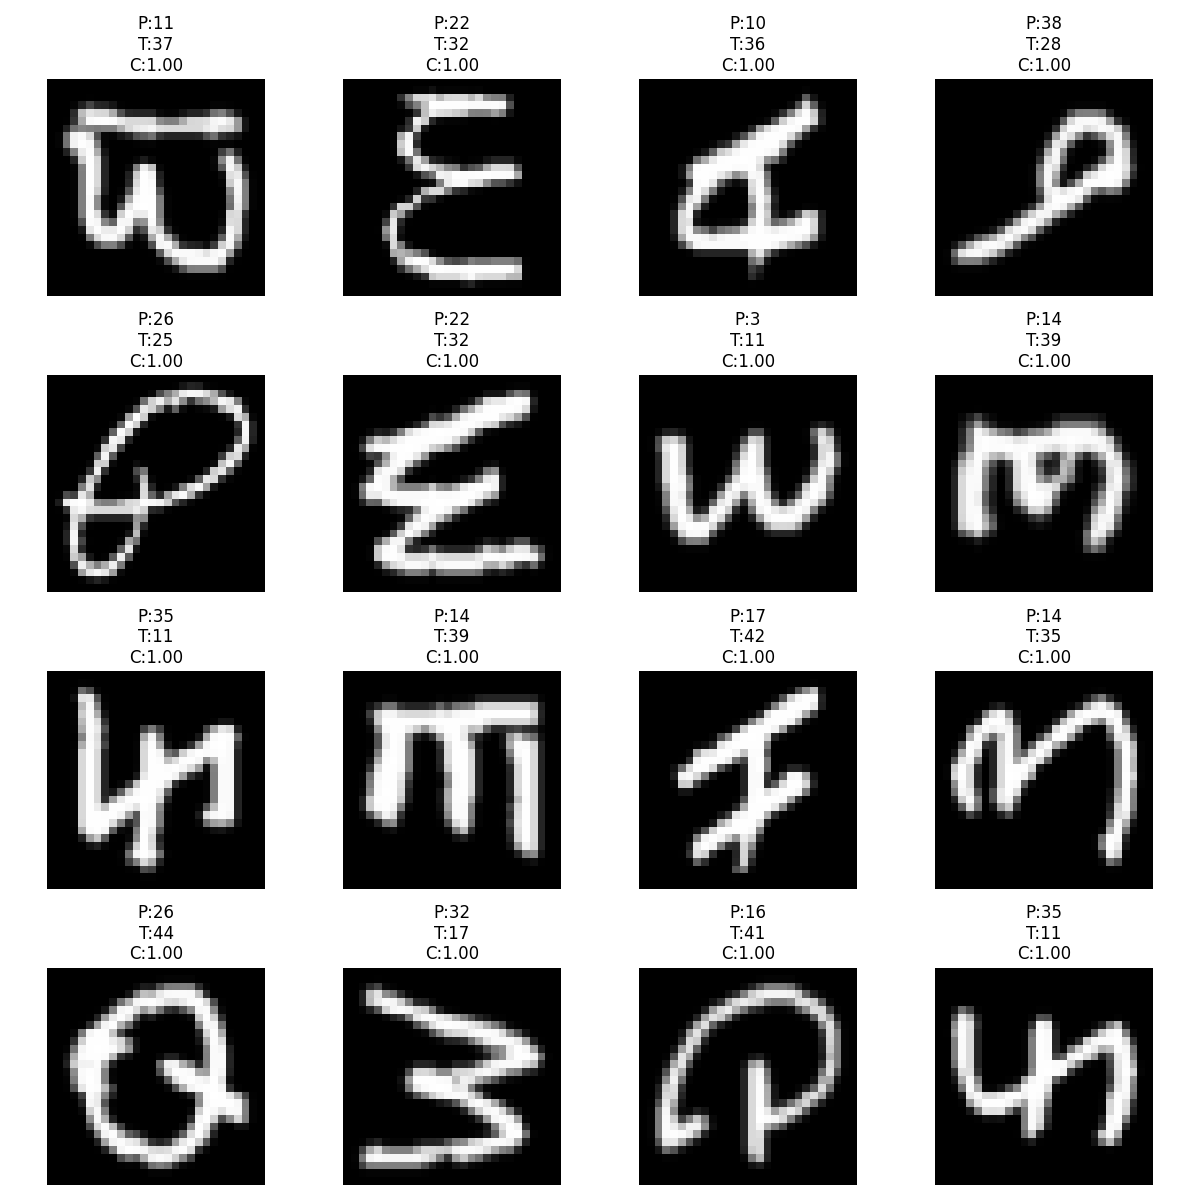
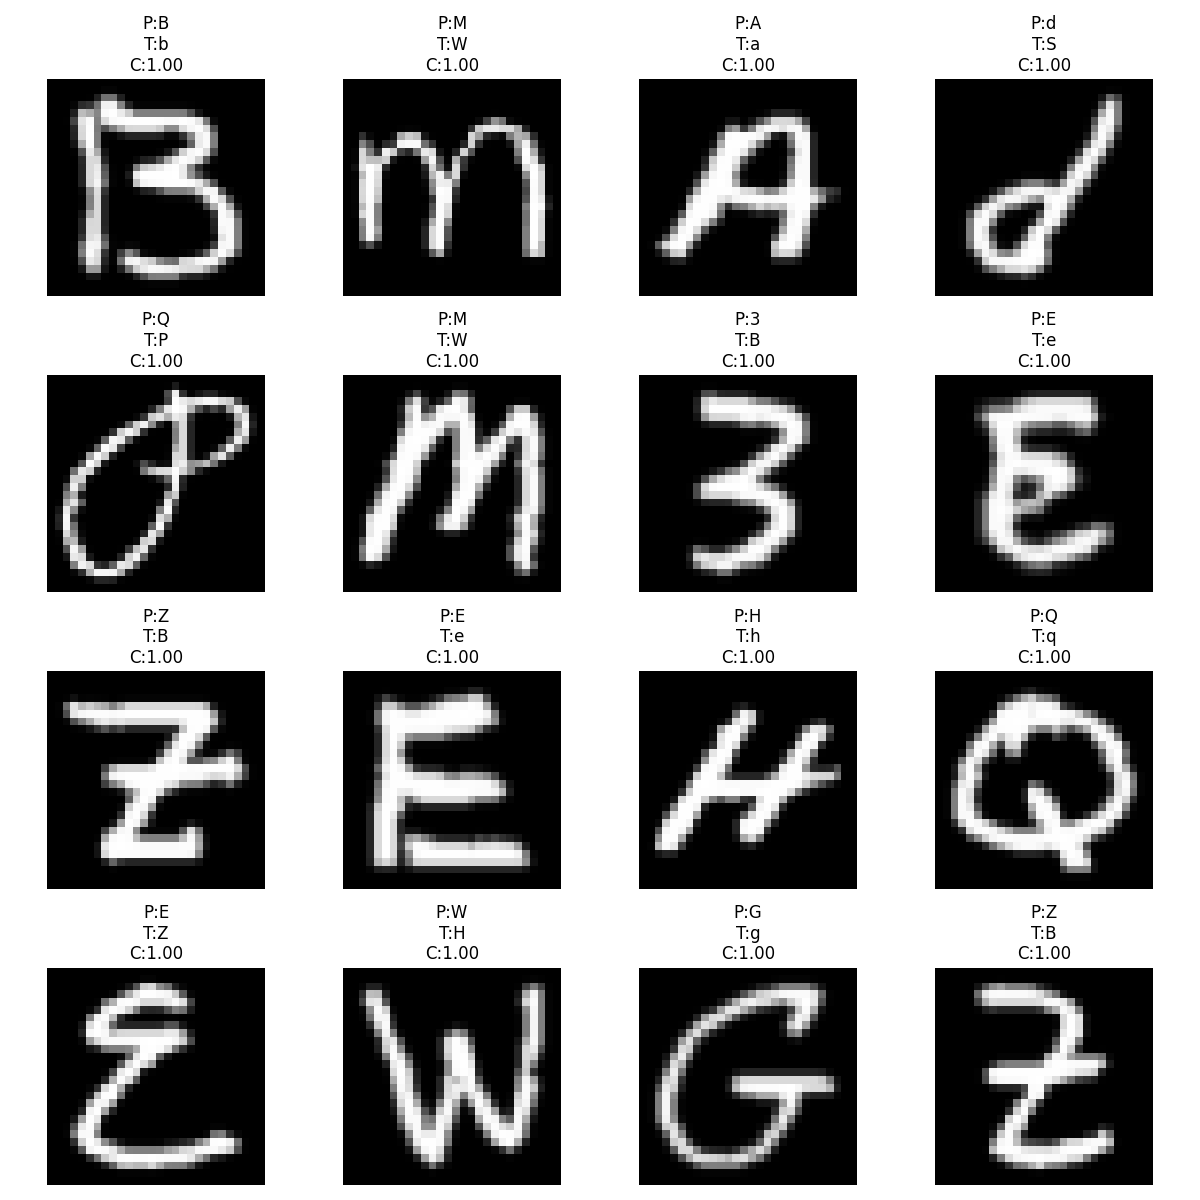
cleaned up visuals

diff --git a/evaluation.py b/evaluation.py
@@ -130,6 +130,14 @@ def plot_reliability_diagram(all_labels, all_preds, all_probs, exp_plot_dir, exp
 def plot_most_confident_misclassifications(
     images, preds, labels, confidences, exp_plot_dir, exp_name, top_n=16, class_names=None
 ):
+    # Manual mapping for EMNIST "balanced" split (index -> ASCII code)
+    emnist_balanced_ascii = [
+        48, 49, 50, 51, 52, 53, 54, 55, 56, 57,  # 0-9
+        65, 66, 67, 68, 69, 70, 71, 72, 73, 74, 75, 76, 77, 78, 79, 80, 81, 82, 83, 84, 85, 86, 87, 88, 89, 90,  # A-Z
+        97, 98, 100, 101, 102, 103, 104, 110, 113, 114, 116  # a, b, d, e, f, g, h, n, q, r, t
+    ]
+    emnist_balanced_labels = [chr(a) for a in emnist_balanced_ascii]
+
     preds = np.array(preds)
     labels = np.array(labels)
     confidences = np.array(confidences)
@@ -149,11 +157,18 @@ def plot_most_confident_misclassifications(
             img_disp = img.squeeze().cpu().numpy()
         else:
             img_disp = img.squeeze()
-        # Use class names if provided, and ensure index is int
+        # Fix orientation for EMNIST: transpose image if shape is (28,28)
+        if img_disp.ndim == 2 and img_disp.shape == (28, 28):
+            img_disp = img_disp.T
         pred_idx = int(preds[idx])
         true_idx = int(labels[idx])
-        pred_label = class_names[pred_idx] if class_names is not None and pred_idx < len(class_names) else pred_idx
-        true_label = class_names[true_idx] if class_names is not None and true_idx < len(class_names) else true_idx
+        # Use manual mapping for EMNIST balanced, else fallback to class_names or index
+        if class_names is not None and len(class_names) == 47:
+            pred_label = emnist_balanced_labels[pred_idx] if pred_idx < len(emnist_balanced_labels) else pred_idx
+            true_label = emnist_balanced_labels[true_idx] if true_idx < len(emnist_balanced_labels) else true_idx
+        else:
+            pred_label = class_names[pred_idx] if (class_names is not None and pred_idx < len(class_names)) else pred_idx
+            true_label = class_names[true_idx] if (class_names is not None and true_idx < len(class_names)) else true_idx
         plt.imshow(img_disp, cmap='gray')
         plt.axis('off')
         plt.title(f"P:{pred_label}\nT:{true_label}\nC:{confidences[idx]:.2f}")

diff --git a/plots/fullRun/ece_table.md b/plots/fullRun/ece_table.md
@@ -1,11 +1,11 @@
 | Model                                                       | ECE (mean ± std)   |
 |:------------------------------------------------------------|:-------------------|
-| fullRun_SimpleCNN (5 epochs)                                | 0.0085 ± 0.0034    |
-| fullRun_SimpleCNN (10 epochs)                               | 0.0181 ± 0.0041    |
+| fullRun_SimpleCNN (5 epochs)                                | 0.0086 ± 0.0034    |
+| fullRun_SimpleCNN (10 epochs)                               | 0.0182 ± 0.0041    |
 | fullRun_SimpleCNN (15 epochs)                               | 0.0329 ± 0.0044    |
 | fullRun_ImprovedCNN (15 epochs)                             | 0.0115 ± 0.0026    |
 | fullRun_ImprovedCNN (15 epochs, Dropout=0.3)                | 0.0258 ± 0.0035    |
-| fullRun_ImprovedCNN (15 epochs, Dropout=0.3) + Data Aug     | 0.0059 ± 0.0015    |
+| fullRun_ImprovedCNN (15 epochs, Dropout=0.3) + Data Aug     | 0.0059 ± 0.0017    |
 | fullRun_ImprovedCNN (15 epochs, Dropout=0.3) + LR Scheduler | 0.0250 ± 0.0045    |
 | fullRun_MLPBaseline (15 epochs)                             | 0.0455 ± 0.0037    |
 | fullRun_ImprovedCNN (15 epochs, Temp Scaling)               | 0.0127 ± 0.0053    |

diff --git a/plots/fullRun/accuracy_table.md b/plots/fullRun/accuracy_table.md
@@ -1,11 +1,11 @@
 | Model                                                       | Accuracy (mean ± std)   |
 |:------------------------------------------------------------|:------------------------|
 | fullRun_SimpleCNN (5 epochs)                                | 85.72 ± 0.30            |
-| fullRun_SimpleCNN (10 epochs)                               | 86.57 ± 0.20            |
+| fullRun_SimpleCNN (10 epochs)                               | 86.58 ± 0.20            |
 | fullRun_SimpleCNN (15 epochs)                               | 86.50 ± 0.24            |
 | fullRun_ImprovedCNN (15 epochs)                             | 88.32 ± 0.19            |
 | fullRun_ImprovedCNN (15 epochs, Dropout=0.3)                | 88.22 ± 0.10            |
-| fullRun_ImprovedCNN (15 epochs, Dropout=0.3) + Data Aug     | 86.81 ± 0.09            |
+| fullRun_ImprovedCNN (15 epochs, Dropout=0.3) + Data Aug     | 86.76 ± 0.21            |
 | fullRun_ImprovedCNN (15 epochs, Dropout=0.3) + LR Scheduler | 88.11 ± 0.26            |
 | fullRun_MLPBaseline (15 epochs)                             | 83.84 ± 0.36            |
 | fullRun_ImprovedCNN (15 epochs, Temp Scaling)               | 91.79 ± 2.41            |
